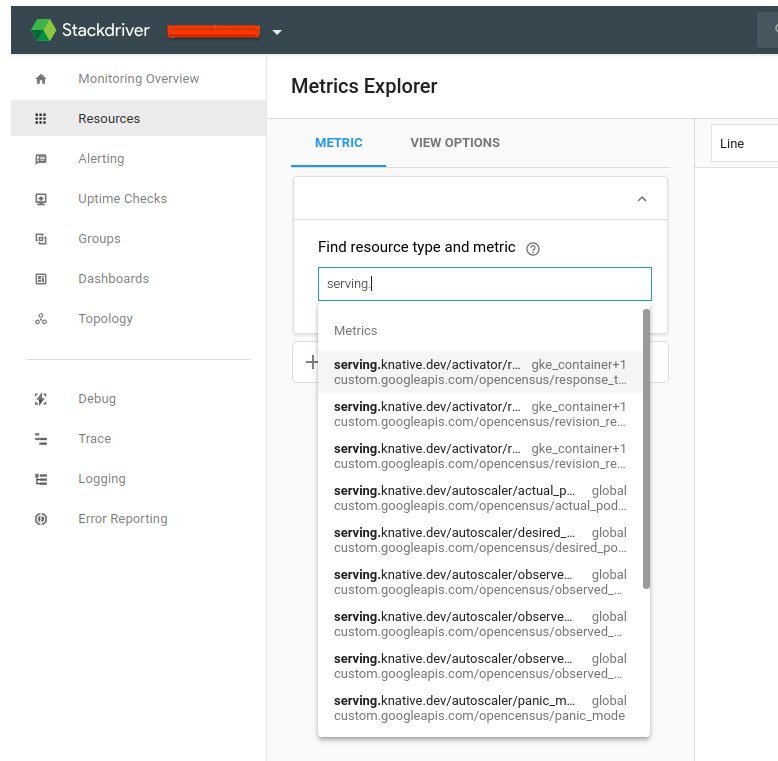
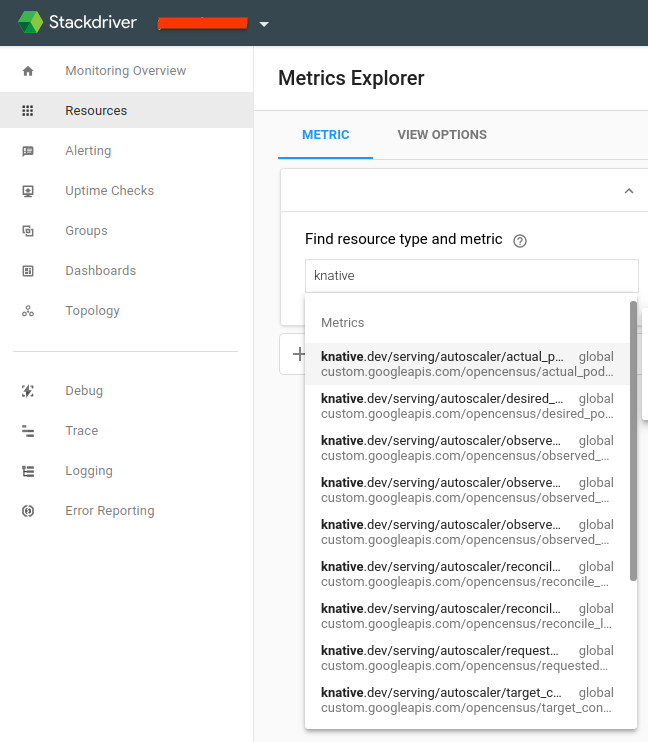
Address CR comments

diff --git a/serving/installing-logging-metrics-traces.md b/serving/installing-logging-metrics-traces.md
@@ -160,19 +160,7 @@ You need to apply the same first two steps to deploy Fluentd image as in [Stackd
 
 To include **Istio metrics**, such as request count and request latency, you'll need to install Istio 1.0.4 or later.
 
-To include **[Kubernetes metrics](https://cloud.google.com/monitoring/api/metrics_other#other-kubernetes.io)** if Knative is deployed to GKE, create a Kubernetes cluster on GKE with [Stackdriver Kubernetes Monitoring](https://cloud.google.com/kubernetes-monitoring/) feature:
-
-<pre>
-    gcloud <b>beta</b> container clusters create $CLUSTER_NAME \
-      --zone=$CLUSTER_ZONE \
-      --cluster-version=latest \
-      --machine-type=n1-standard-4 \
-      --enable-autoscaling --min-nodes=1 --max-nodes=10 \
-      --enable-autorepair \
-      <b>--enable-stackdriver-kubernetes \</b>
-      --scopes=service-control,service-management,compute-rw,storage-ro,cloud-platform,logging-write,monitoring-write,pubsub,datastore \
-      --num-nodes=3
-</pre>
+To include **[Kubernetes metrics](https://cloud.google.com/monitoring/api/metrics_other#other-kubernetes.io)** if Knative is deployed to GKE, create a Kubernetes cluster on GKE with [Stackdriver Kubernetes Monitoring](https://cloud.google.com/kubernetes-monitoring/) feature with flag *--enable-stackdriver-kubernetes*, which is a **beta** feature as of November 2018. This could change when the feature goes to GA in December 2018. For the accurate flag to enable the feature, refer to [this](https://cloud.google.com/kubernetes-monitoring/).
 
 ## Learn More
 

diff --git a/serving/accessing-metrics.md b/serving/accessing-metrics.md
@@ -35,7 +35,7 @@ kubectl port-forward --namespace knative-monitoring $(kubectl get pods --namespa
  https://app.google.stackdriver.com/metrics-explorer?project=<your stackdriver project id>
  ```
 
-If you created [single project workspace](https://cloud.google.com/monitoring/workspaces/guide#single-project-ws), the stackdriver project id is usually the same as the GCP project id. In Metrics Explorer, you can search for Knative system metrics like *serving.knative.dev* (screenshot below):
+If you created [single project workspace](https://cloud.google.com/monitoring/workspaces/guide#single-project-ws), the stackdriver project id is usually the same as the GCP project id. In Metrics Explorer, you can search for Knative system metrics like *knative.dev/serving* (screenshot below):
 ![Stackdriver Metrics Explorer](./images/stackdriver1.png)
 
 ---
